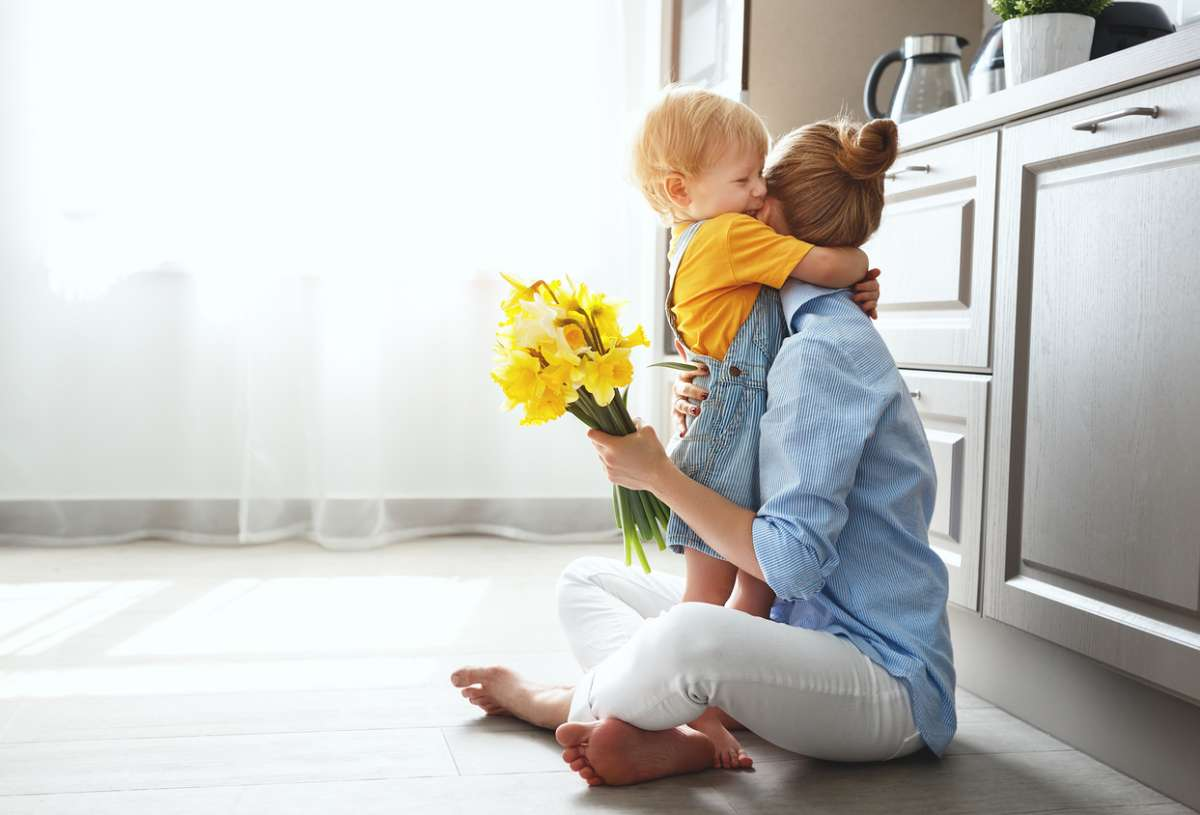
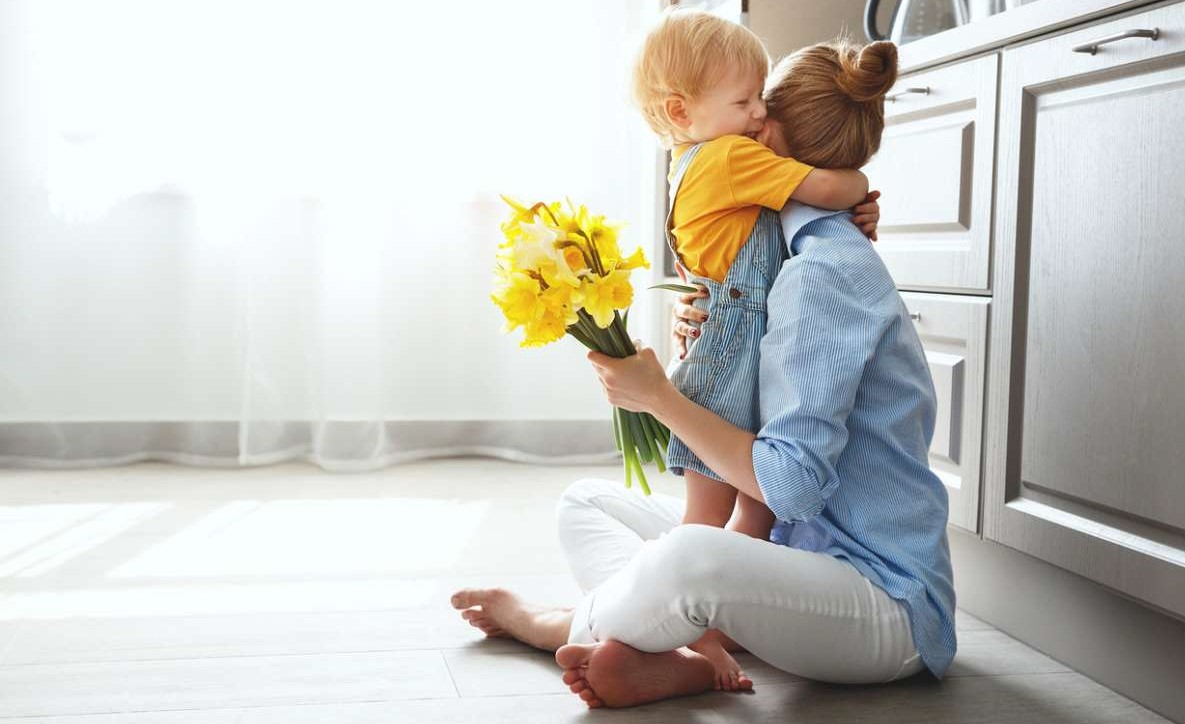
Changed hero img at top of home page slightly.

diff --git a/home/templates/home/index.html b/home/templates/home/index.html
@@ -11,7 +11,7 @@
 
 {% block content %}
     <div class="container h-100" id="top-img">
-        <div class="row h-100">
+        <div class="row h-120">
             <div class="col-7 col-md-6 my-auto">
                 <h1 class="display-4 logo-font text-black">
                     Find the Gift<br>She Deserves

diff --git a/static/css/base.css b/static/css/base.css
@@ -8,11 +8,9 @@ body {
 }
 
 #top-img{
-background: url('/media/perfect_gift.jpg') no-repeat center center fixed;
-background-size: cover;
+background: url('/media/perfect_gift2.jpg') no-repeat center center fixed;
 width:100%;
 height: calc(100vh - 160px);
-padding-top:10%;
 }
 
 #about-img-gift{
